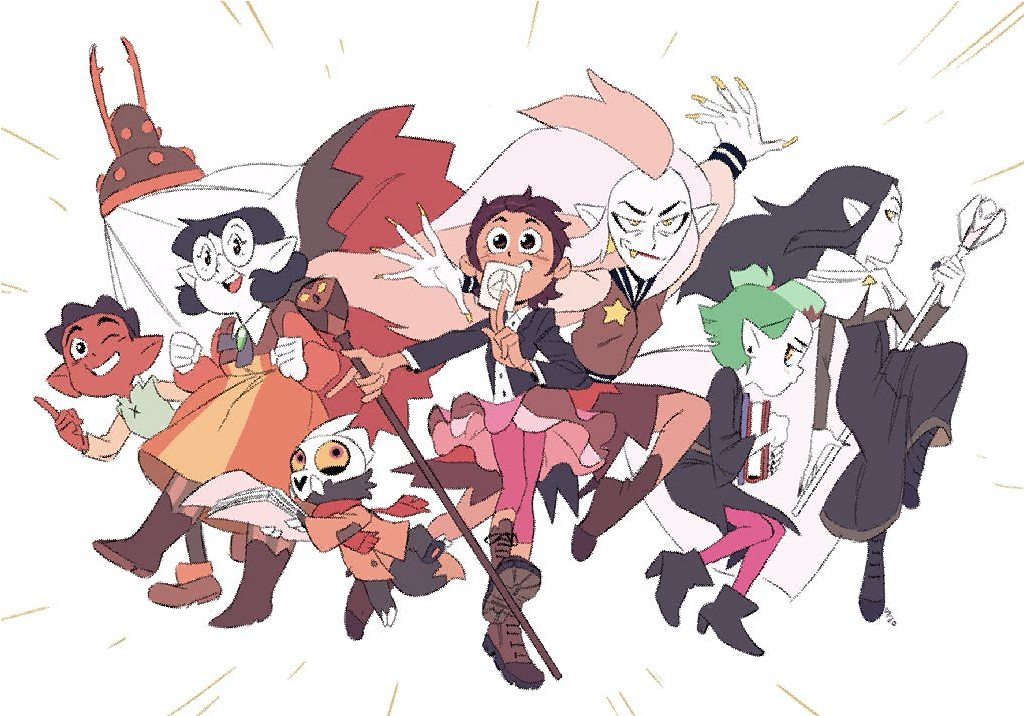
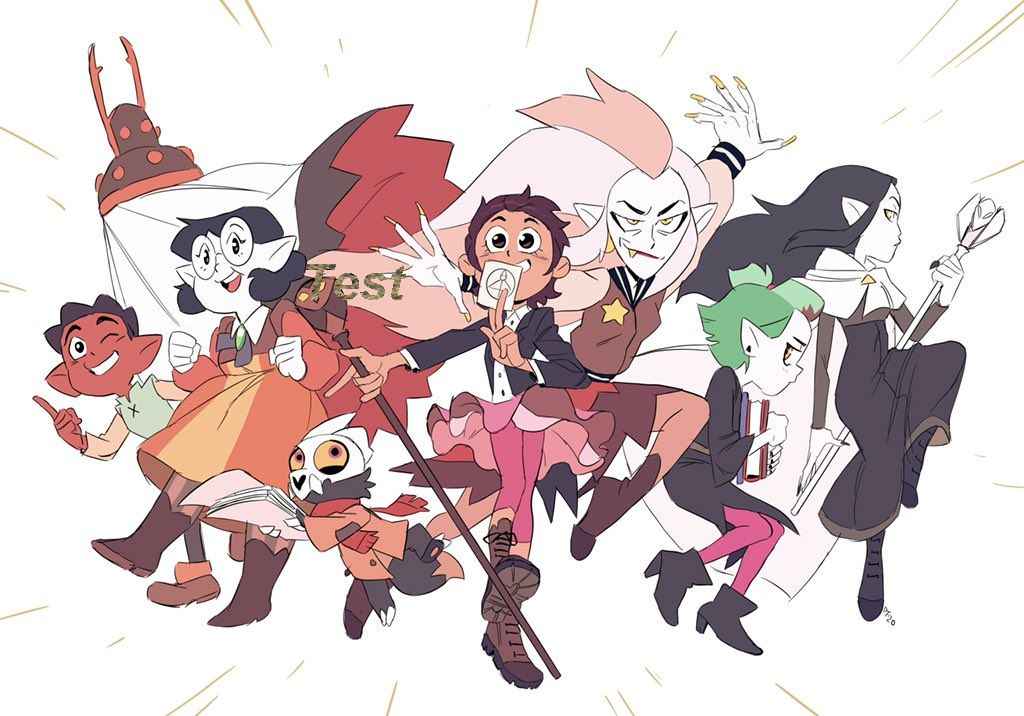
Texte et Texture fonctionnelle

diff --git a/src/metier/Paint.java b/src/metier/Paint.java
@@ -1,6 +1,8 @@
 package metier;
 
 import java.awt.Color;
+import java.awt.Font;
+import java.awt.Graphics2D;
 import java.awt.image.BufferedImage;
 import java.io.File;
 import java.util.ArrayList;
@@ -83,11 +85,30 @@ public class Paint
 
 			if ( h > this.height) this.height = h;
 			if ( w > this.width ) this.width  = w;
-
-			System.out.println(h + " " + this.height);
-			System.out.println(w + " " + this.width );
 		}
 	}
+
+	/**
+	 * Retire une image dans la liste.
+	 * @param img
+	 */
+	public void removeImage(Image img)
+	{
+		this.lstImages.remove(img);
+
+		// Max height
+		if (img.getImgHeight() >= this.height)
+			for (Image image : lstImages)
+				if (!image.equals(img) && image.getImgHeight() >= this.height)
+					this.height = img.getImgHeight();	
+
+		// Max width
+		if (img.getImgWidth() >= this.width)
+			for (Image image : lstImages)
+				if (!image.equals(img) && image.getImgWidth() >= this.width)
+					this.width = img.getImgWidth();				
+	}
+
 
 	/**
 	 * Retourne une image qui est l'image combiné des autres
@@ -366,54 +387,51 @@ public class Paint
 	/*                                            METHODE ROTATIONS                                        */
 	/* --------------------------------------------------------------------------------------------------- */
 
-	
-	public void retourner(Image image, int angle) {
+	/**
+	 * Rotation d'un éléments.
+	 * @param image
+	 * @param angle
+	 */
+	public void retourner(Image image, int angle) 
+	{
 		BufferedImage img = image.getImg();
 	
-		// Calcul de l'angle en radians
 		double angleRad = Math.toRadians(angle);
 		double sin = Math.abs(Math.sin(angleRad));
 		double cos = Math.abs(Math.cos(angleRad));
 	
-		// Dimensions de la nouvelle image après rotation
 		int oldWidth = img.getWidth();
 		int oldHeight = img.getHeight();
 		int newWidth = (int) Math.ceil(oldWidth * cos + oldHeight * sin);
 		int newHeight = (int) Math.ceil(oldWidth * sin + oldHeight * cos);
 	
-		// Création de la nouvelle image
 		BufferedImage rotatedImg = new BufferedImage(newWidth, newHeight, BufferedImage.TYPE_INT_ARGB);
 	
-		// Calcul des décalages pour recentrer l'image
 		int xCenterOld = oldWidth / 2;
 		int yCenterOld = oldHeight / 2;
 		int xCenterNew = newWidth / 2;
 		int yCenterNew = newHeight / 2;
 	
-		// Parcours des pixels de la nouvelle image
-		for (int rX = 0; rX < newWidth; rX++) {
-			for (int rY = 0; rY < newHeight; rY++) {
-				// Calcul des coordonnées inverses dans l'image d'origine
+		for (int rX = 0; rX < newWidth; rX++) 
+		{
+			for (int rY = 0; rY < newHeight; rY++) 
+			{
 				double x = (rX - xCenterNew) * Math.cos(-angleRad) - (rY - yCenterNew) * Math.sin(-angleRad) + xCenterOld;
 				double y = (rX - xCenterNew) * Math.sin(-angleRad) + (rY - yCenterNew) * Math.cos(-angleRad) + yCenterOld;
 	
-				// Vérification si les coordonnées sont valides
-				if (x >= 0 && x < oldWidth && y >= 0 && y < oldHeight) {
-					// Récupération de la couleur du pixel d'origine
+				if (x >= 0 && x < oldWidth && y >= 0 && y < oldHeight) 
+				{
 					int srcX = (int) Math.floor(x);
 					int srcY = (int) Math.floor(y);
 	
-					// Sécurité pour éviter les débordements
 					srcX = Math.min(srcX, oldWidth - 1);
 					srcY = Math.min(srcY, oldHeight - 1);
 	
-					// Application directe sans interpolation
 					rotatedImg.setRGB(rX, rY, img.getRGB(srcX, srcY));
 				}
 			}
 		}
 	
-		// Mise à jour de l'image avec la version tournée
 		image.setX(image.getX() + (xCenterOld - xCenterNew));
 		image.setY(image.getY() + (yCenterOld - yCenterNew));
 		image.setImg(rotatedImg);
@@ -596,6 +614,65 @@ public class Paint
 		}
 	}
 	
+			
+
+
+
+		
+
+
+
+
+
+	/* --------------------------------------------------------------------------------------------------- */
+	/*                                             METHODE TEXTE                                           */
+	/* --------------------------------------------------------------------------------------------------- */
+	
+	/**
+	 * Ajoute du texte.
+	 * @param text
+	 * @param bold
+	 * @param italic
+	 * @param police
+	 * @param size
+	 */
+	public void addText (String text, boolean bold, boolean italic, String police, int size, int argb)
+	{
+		BufferedImage bi = new BufferedImage(this.width, this.height, BufferedImage.TYPE_INT_ARGB);
+		
+		Graphics2D g2 = bi.createGraphics();
+		
+		int style = Font.PLAIN;
+		if (bold  ) style = style | Font.BOLD;
+		if (italic) style = style | Font.ITALIC;
+
+		g2.setColor(new Color(argb));
+		g2.setFont(new Font(police ,style, size));
+		g2.drawString(text, DEFAULT_WIDTH, DEFAULT_HEIGHT);
+
+		this.addImage(new Image(0, 0, bi));
+	}	
+
+
+
+	/* --------------------------------------------------------------------------------------------------- */
+	/*                                            METHODE TEXTURE                                          */
+	/* --------------------------------------------------------------------------------------------------- */
+	
+
+	/**
+	 * Remplace les pixels non transparent par une texture.
+	 * @param biTexture
+	 * @param img
+	 */
+	public void addTexture(BufferedImage biTexture, Image img)
+	{
+		BufferedImage bi = img.getImg();
+		for (int x = 0; x < bi.getWidth(); x++)
+			for (int y = 0; y < bi.getHeight(); y++)
+				if (!Paint.isTrans(bi.getRGB(x, y)))
+					bi.setRGB(x, y, biTexture.getRGB(x % biTexture.getWidth(), y % biTexture.getHeight()));
+	}
 
 
 
@@ -616,12 +693,17 @@ public class Paint
 			
 			// p.bucket(0, 0, Color.RED.getRGB(), 80);
 
+			p.addText("Test", true, true, Font.SANS_SERIF, 50, Color.RED.getRGB());
+
+
+			
+			p.addTexture(ImageIO.read(new File("src/metier/roche.png")), p.lstImages.get(p.lstImages.size() - 1));
 			// // p.setLuminosite(img, -200);
 			// p.setLuminosite(0,0,100,100, -100);
 			// p.setLuminosite(100,100,200,200, 180);
 			// p.setLuminosite(150,150, 50, -100);
-			p.retourner(img, 30);
-			p.retourner(img, -30);
+			// p.retourner(img, 30);
+			// p.retourner(img, -30);
 			// p.retourner(img, 30);
 			// p.retourner(img, 30);
 
